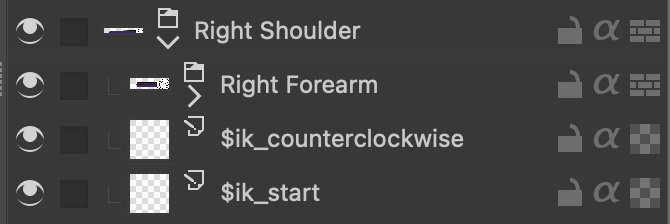
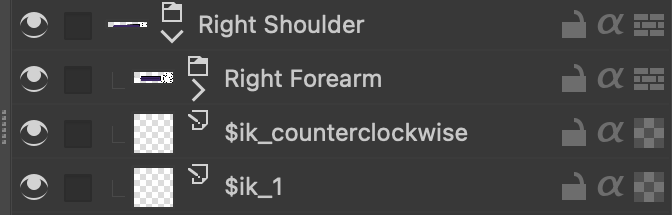
updated psd page for ik families

diff --git a/src/psd.md b/src/psd.md
@@ -60,14 +60,17 @@ the main bone.
 
 ## Inverse Kinematics
 
+_See: [Inverse Kinematics](./inverse-kinematics.md)_
+
 Layers starting with `$ik_` will be used to set IK properties to their
-respective bones:
+respective bones.
 
-Effectors:
+Family id format: `$ik_X`
 
-- <p class="ik-code"><code>$ik_start</code></p>
-- <p class="ik-code"><code>$ik_middle</code></p>
-- <p class="ik-code"><code>$ik_end</code></p>
+Examples:
+
+- <p class="ik-code"><code>$ik_0</code></p>
+- <p class="ik-code"><code>$ik_1</code></p>
 
 Constraints:
 
